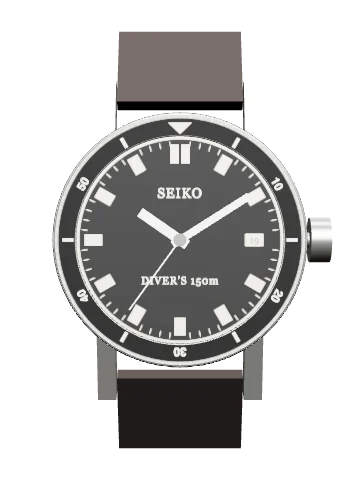
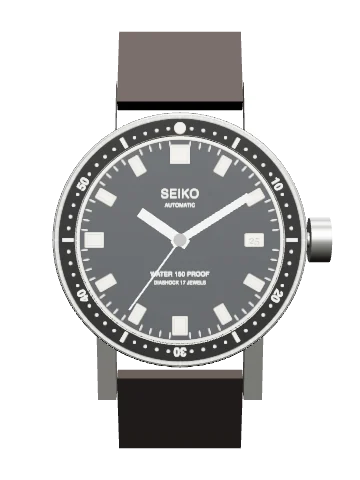
Both Seikos checked against photographs: 62MAS lettering, grey dial, block markers, pip and dots on the bezel; 6139 tachymeter to 250, sixty-minute inner ring, block markers, three lines of lettering

Changed region(s): [[0.1833, 0.25, 0.825, 0.75]]

diff --git a/draw.js b/draw.js
@@ -159,7 +159,8 @@ function bezel(w, g) {
     for (let a = 0; a < 360; a += 5) s += rad(a, R - 0.5, R, 't');
     s += C(R - 0.55, 0, 0, 'tn') + C(ri, 0, 0, 'p');
     const ro = R - 0.55, h = ro - ri, rm = (ro + ri) / 2;
-    s += Pa(polyD([P(-6, ro - 0.5), P(6, ro - 0.5), P(0, ri + 0.5)]), 'p'); if (b.pearl) s += C(h * 0.2, 0, -(ro - 0.5 - h * 0.27), 'p') + C(h * 0.11, 0, -(ro - 0.5 - h * 0.27), 't'); // the luminous pearl set in the triangle, where the watch has one
+    if (b.pip) s += C(h * 0.3, 0, -rm, 'p'); /* a round luminous pip at nought, where other divers carry a triangle */ else s += Pa(polyD([P(-6, ro - 0.5), P(6, ro - 0.5), P(0, ri + 0.5)]), 'p'); if (b.pearl) s += C(h * 0.2, 0, -(ro - 0.5 - h * 0.27), 'p') + C(h * 0.11, 0, -(ro - 0.5 - h * 0.27), 't'); // the luminous pearl set in the triangle, where the watch has one
+    if (b.dots) for (let m = 1; m < 60; m++) if (m % 5) { const p = P(m * 6, rm); s += C(0.2, p[0], p[1], 'k'); } // a dot at every minute between the bars
     if (b.every) for (let m = 1; m < 60; m++) if (m % 5) s += rad(m * 6, ri + h * 0.3, ro - h * 0.3, 'bar'); // a bar at every minute, all the way round
     for (let m = 5; m < 60; m += 5) {
       const a = m * 6;
@@ -169,6 +170,14 @@ function bezel(w, g) {
     if (b.first15) for (let m = 1; m < 15; m++) if (m % 5) s += rad(m * 6, ri + 0.35, ri + 1.25, 't');
   } else if (b.type === 'tachy') {
     s += C(R - 0.4, 0, 0, 'tn') + C(ri, 0, 0, 'p');
+    if (b.scale === '6139') { /* the fixed bezel of the Seiko 6139-6002, read from photographs: a tachymeter that tops out at 250. On the watch the stretch from 60 round to 50 is red and the rest
+         is blue; the two lines drawn across the ring mark where the colours meet. Each figure stands at 3600 divided by its value, in seconds. */
+      const rm = (R - 0.4 + ri) / 2 + 0.1, sz = Math.min(b.w * 0.34, 0.85);
+      [60, 59, 58, 57, 56, 55, 54, 53, 52, 51, 50, 250, 220, 200, 180, 170, 160, 150, 140, 130, 120, 110, 100, 90, 85, 80, 75, 70, 65].forEach(v => { const a = 21600 / v % 360; s += T(v, 0, 0, sz, 'tx bz', `transform="rotate(${f(a)}) translate(0,${f(-rm + sz * 0.36)})"`); });
+      [...'TACHYMETER'].forEach((ch, i) => { s += T(ch, 0, 0, sz * 0.8, 'tx bz', `transform="rotate(${f(336.5 + i * 2.2)}) translate(0,${f(-rm + sz * 0.3)})"`); });
+      s += rad(-3.2, ri, R - 0.4, 't') + rad(79, ri, R - 0.4, 't');
+      return s;
+    }
     if (b.scale === '6263') { /* the acrylic insert of the Daytona 6263, read from dealers' photographs: these figures, running to 200, each at 3600 divided by its value, in seconds,
          with a mark beside it; and UNITS PER HOUR on two lines at three o'clock. The typeface is an approximation. */
       const rm = (R - 0.4 + ri) / 2 + 0.12, sz = Math.min(b.w * 0.36, 1.1);
@@ -242,8 +251,10 @@ function markers(w, g, skip) {
     case 'royaloak': { // the first Royal Oak's dial, from Audemars Piguet's own photographs: long slim applied bars with rounded ends, two side by side at twelve, and none at three, where the date is
       s += ticks(0.7, 0.2); const rb = (h, dx) => `<rect class="p" x="${f(dx - 0.3)}" y="${f(-R0 + 0.95)}" width="0.6" height="4.3" rx="0.3" transform="rotate(${h * 30})"/>`;
       each(h => h ? rb(h, 0) : rb(0, -0.45) + rb(0, 0.45)); break; }
+    case 'seiko6139': s += ticks(0.6, 0.2); each(h => bat(h, h ? 1.7 : 1.7, h ? 1.3 : 2.1, 'p', 0.9)); break; // applied steel blocks with luminous centres, a wider one at twelve; none at three or six, where the window and the register are
     case 'baton': s += ticks(); each(h => h === 0 ? dbl(2.6, 0.8) : bat(h, 2.6, 0.8)); break;
     case 'block': s += ticks(); each(h => h === 0 ? dbl(2.8, 1.3) : bat(h, 2.6, 1.7)); break;
+    case 'mas62': s += ticks(); each(h => bat(h, 2.7, h === 0 ? 2.9 : h % 3 === 0 ? 2.2 : 1.6, 'p', 0.8) + bat(h, 2.1, h === 0 ? 2.3 : h % 3 === 0 ? 1.6 : 1.0, 'p', 1.1)); break; // applied luminous blocks in metal surrounds: one extra-wide at twelve, wider ones at six and nine
     case 'sm300': { // the early dial of the Seamaster 300 165.024, from photographs: a long printed mark at every minute, eight long luminous bars that taper a little toward the centre, and at 12, 3, 6 and 9 a figure with a small luminous block outside it
       for (let i = 0; i < 60; i++) if (i % 5) s += rad(i * 6, R0 - 3.1, R0 - 0.3, 't');
       const wedge = (h, len, w0, w1) => `<path class="p" d="${polyD([[f(-w0 / 2), f(-R0 + 0.3)], [f(w0 / 2), f(-R0 + 0.3)], [f(w1 / 2), f(-R0 + 0.3 + len)], [f(-w1 / 2), f(-R0 + 0.3 + len)]])}" transform="rotate(${h * 30})"/>`;
@@ -487,6 +498,10 @@ function dial(w, g, o) {
       for (let v = 5; v <= 100; v += 5) s += put(v, v * 3.6 % 360, r + 1.0, 0.74, 'tx dkt');
       s += put('SWISS', 190.5, rb - 0.2, 0.34, 'tx dkt') + put('MADE - T', 168, rb - 0.2, 0.34, 'tx dkt');
     }
+    else if (d.flange === 'minutes60') { /* the 6139's inner ring, which the crown turns: a sixty-minute scale with a triangle at nought and figures at the tens */
+      for (let i = 0; i < 60; i++) s += rad(i * 6, r + 0.15, r + (i % 5 ? 0.5 : 0.8), 't');
+      [10, 20, 30, 40, 50].forEach(v => { s += T(v, 0, 0, 0.85, 'tx bz', `transform="rotate(${v * 6}) translate(0,${f(-r - 0.62)})"`); });
+      s += Pa(polyD([[-0.5, f(-r - 1.4)], [0.5, f(-r - 1.4)], [0, f(-r - 0.45)]]), 'k'); }
     else if (d.flange === 'fifths') for (let i = 0; i < 300; i++) s += rad(i * 1.2, r + 0.2, r + (i % 5 ? 0.75 : 1.35), i % 5 ? 'hair' : 't');
     else if (d.flange === 'tachy') { for (let i = 0; i < 60; i++) s += rad(i * 6, r + 0.15, r + 0.55, 't'); [200, 150, 120, 100, 90, 80, 70, 60].forEach(v => { s += T(v, 0, 0, 0.95, 'tx bz', `transform="rotate(${f(21600 / v)}) translate(0,${f(-r - 0.65)})"`); }); }
     else for (let i = 0; i < 60; i++) s += rad(i * 6, r + 0.2, r + (i % 5 ? 0.8 : 1.4), 't');
@@ -532,7 +547,7 @@ function hands(w, g) {
   else { hp = Pa(pen(Lh, 0.8), 'p'); mp = Pa(pen(Lm, 0.62), 'p'); }
   let s = `<g data-hand="h">${hp}</g><g data-hand="m">${mp}</g>`;
   if (w.chrono) s += `<g data-chr="s" data-bps="${b}">${L(0, 3.2, 0, -Lm * 1.04, 'hd')}${Pa(polyD([[-0.5, f(-Lm * 0.9)], [0.5, f(-Lm * 0.9)], [0, f(-Lm * 1.04)]]), 'k')}</g>`;
-  else if (w.sec === 'center') s += `<g data-hand="s" data-bps="${b}">${L(0, 3.4, 0, -Lm * 1.02, 'hd')}${st === 'mercedes' ? C(0.75, 0, -Lm * 0.62, 'p') : ''}${w.secTip === 'diamond' ? Pa(polyD([[0, f(-Lm * 0.7)], [0.55, f(-Lm * 0.8)], [0, f(-Lm * 0.93)], [-0.55, f(-Lm * 0.8)]]), 'p') : ''}${RC(-0.35, 1.6, 0.7, 1.8, 'k')}</g>`;
+  else if (w.sec === 'center') s += `<g data-hand="s" data-bps="${b}">${L(0, 3.4, 0, -Lm * 1.02, 'hd')}${st === 'mercedes' ? C(0.75, 0, -Lm * 0.62, 'p') : ''}${w.secTip === 'block' ? RC(-0.4, f(-Lm * 0.86), 0.8, 1.5, 'p') : ''}${w.secTip === 'diamond' ? Pa(polyD([[0, f(-Lm * 0.7)], [0.55, f(-Lm * 0.8)], [0, f(-Lm * 0.93)], [-0.55, f(-Lm * 0.8)]]), 'p') : ''}${RC(-0.35, 1.6, 0.7, 1.8, 'k')}</g>`;
   return s + C(0.95, 0, 0, 'p') + C(0.3, 0, 0, 'k');
 }
 

diff --git a/data.js b/data.js
@@ -170,23 +170,23 @@ window.WATCHES = [
 {
   id:'62mas', brand:'Seiko', model:'62MAS', ref:'6217-8000 / 8001', year:'1965', span:'1965 – c. 1968', kind:'Dive watch',
   c:{shape:'round', d:37, t:[13.5,'a'], lug:[19,'a']},
-  bezel:{type:'dive', w:3.4}, dial:{dark:true, markers:'block', date:3, text:['SEIKO','DIVER’S 150m']},
-  hands:'baton', sec:'center', crown:{pos:3, big:true}, strap:'tropic',
+  bezel:{type:'dive', w:3.4, pip:true, dots:true}, dial:{dark:true, blue:'#2a2d30', markers:'mas62', date:3, text:['SEIKO','WATER 150 PROOF'], set:{lines:[['SEIKO',-0.42,0.12,1],['AUTOMATIC',-0.33,0.05,1],['WATER  150  PROOF',0.36,0.06,1],['DIASHOCK 17 JEWELS',0.44,0.045,1]]}},
+  hands:'baton', secTip:'block', sec:'center', crown:{pos:3, big:true}, strap:'tropic',
   mv:{cal:'6217A', type:'auto', vph:18000, jewels:17, wind:'Automatic, full rotor'},
   back:{type:'screw', emblem:'Dolphin emblem', note:'Screw back. The dolphin emblem is indicated, not reproduced.'},
   specs:[['Water resistance','150 m'],['Complication','Date at 3'],['Bezel','Rotating, sixty-minute scale']],
-  notes:['Japan’s first professional dive watch.','The nickname contracts “autoMAtic Selfdater”, from the 62-series movement family.'],
+  notes:['Japan’s first professional dive watch.','The dial reads WATER 150 PROOF and DIASHOCK 17 JEWELS, with no mention of “diver”; it is a grey sunburst, not black. The bezel carries a round luminous pip at nought and a dot at every minute. Read from photographs of a 6217-8001.','The nickname contracts “autoMAtic Selfdater”, from the 62-series movement family.'],
   q:{t:'What distinction does the 62MAS hold?', a:'Japan’s first professional dive watch', w:['The first quartz dive watch','The first titanium watch case','The first watch on the Moon']}
 },
 {
   id:'6139', brand:'Seiko', model:'5 Sports Speed-Timer', ref:'6139-6002', year:'c. 1970', span:'Cal. 6139 from 1969', kind:'Chronograph',
   c:{shape:'cushion', d:41, da:'a', t:[13.5,'n'], lug:[19,'a']},
-  bezel:{type:'tachy', w:2.6, dark:true}, dial:{dark:false, markers:'baton', flange:'minutes', date:3, daydate:true, subs:[[6,'min30']], text:['SEIKO','CHRONOGRAPH']},
+  bezel:{type:'tachy', w:2.6, dark:true, scale:'6139'}, dial:{dark:false, markers:'seiko6139', flange:'minutes60', date:3, daydate:true, subNums:true, subs:[[6,'min30']], text:['SEIKO','CHRONOGRAPH'], set:{lines:[['SEIKO',-0.45,0.11,1],['CHRONOGRAPH',-0.36,0.055,1],['AUTOMATIC',-0.295,0.055,1],['WATER',-0.06,0.045,2,-0.55],['70m',0,0.045,2,-0.55],['RESIST',0.06,0.045,2,-0.55]]}},
   hands:'baton', sec:'none', chrono:true, crown:{pos:3}, pushers:'pump', strap:'oyster',
   mv:{cal:'6139', type:'autochrono', vph:21600, wind:'Automatic, full rotor', note:'Column wheel with vertical clutch. No running-seconds hand.'},
   back:{type:'screw', note:'Screw back. Engraving omitted.'},
-  specs:[['Dial','Single 30-minute register at 6'],['Complication','Day and date at 3'],['Inner ring','Rotating, turned by the crown']],
-  notes:['One of the 1969 automatic chronographs, and the first to pair a column wheel with a vertical clutch.','Astronaut William Pogue carried a yellow-dialled example aboard Skylab 4 in 1973–74.','With no running seconds, the watch looks still until you start the chronograph.'],
+  specs:[['Dial','Single 30-minute register at 6'],['Complication','Day and date at 3'],['Bezel','Fixed tachymeter, red from 60 to 50 and blue beyond'],['Inner ring','Sixty-minute scale, turned by the crown']],
+  notes:['One of the 1969 automatic chronographs, and the first to pair a column wheel with a vertical clutch.','Astronaut William Pogue carried a yellow-dialled example aboard Skylab 4 in 1973–74.','With no running seconds, the watch looks still until you start the chronograph.','Drawn with the export dial of mid-1970 to 1972, lettered CHRONOGRAPH, AUTOMATIC and WATER 70m RESIST; earlier dials read PROOF. The bezel and the inner ring are read from photographs. Sources give the case as 40 or 41 mm.'],
   q:{t:'Who wore a 6139 aboard Skylab 4?', a:'William Pogue', w:['Buzz Aldrin','Wally Schirra','Scott Carpenter']}
 },
 {

diff --git a/workbench/watches/seiko-62mas.js b/workbench/watches/seiko-62mas.js
@@ -54,12 +54,12 @@ export default {
       significance: '', related: ['bezel', 'dial'] },
     { id: 'bezel', name: 'Rotating bezel', group: 'Exterior', status: 'D', anchor: [0, 17.4, 4.2], face: 1,
       beginner: 'The black ring with minute marks. A diver turns it so its triangle lines up with the minute hand, then reads off how long they have been under water.',
-      horologist: 'A rotating bezel with a sixty-minute scale for timing elapsed time. The model’s bezel is a plain ring with a printed scale and does not reproduce the real one’s grip or action.',
+      horologist: 'A rotating bezel with a sixty-minute scale for timing elapsed time. It carries a round luminous pip at nought, figures at the tens, bars at the other fives and a dot at every minute between. The model’s bezel is a plain ring with a printed scale and does not reproduce the real one’s grip or action.',
       fn: 'Times a dive without stopping the watch.', material: 'Steel, printed insert',
       significance: 'A rotating bezel is the feature that makes a watch a dive watch.', related: ['crystal', 'hands'] },
     { id: 'dial', name: 'Dial', group: 'Exterior', status: 'D', anchor: [-8, -2, 2.4], face: 1,
       beginner: 'A dark dial with big block markers that glow in the dark, and a date window on the right.',
-      horologist: 'Dark dial with large rectangular luminous markers and a framed date at 3. Signed for 150 metres.',
+      horologist: 'A grey sunburst dial with large rectangular luminous markers in metal surrounds, one extra-wide at twelve and wider ones at six and nine, and a framed date at 3. It is lettered SEIKO and AUTOMATIC above the centre, and WATER 150 PROOF and DIASHOCK 17 JEWELS below; the word “diver” does not appear. The lettering is placed from photographs of a 6217-8001; the typefaces are approximations, the 150 is not enlarged as on the real dial, and the tiny dial code at the foot is left out.',
       fn: 'Displays the time and date, legibly under water.', material: 'Metal dial, luminous markers',
       significance: 'Markers this large were about being read in murky water, not about style.', related: ['hands'] },
     { id: 'hands', name: 'Hands', group: 'Exterior', status: 'D', anchor: [3, 8, 3.1], face: 1,
